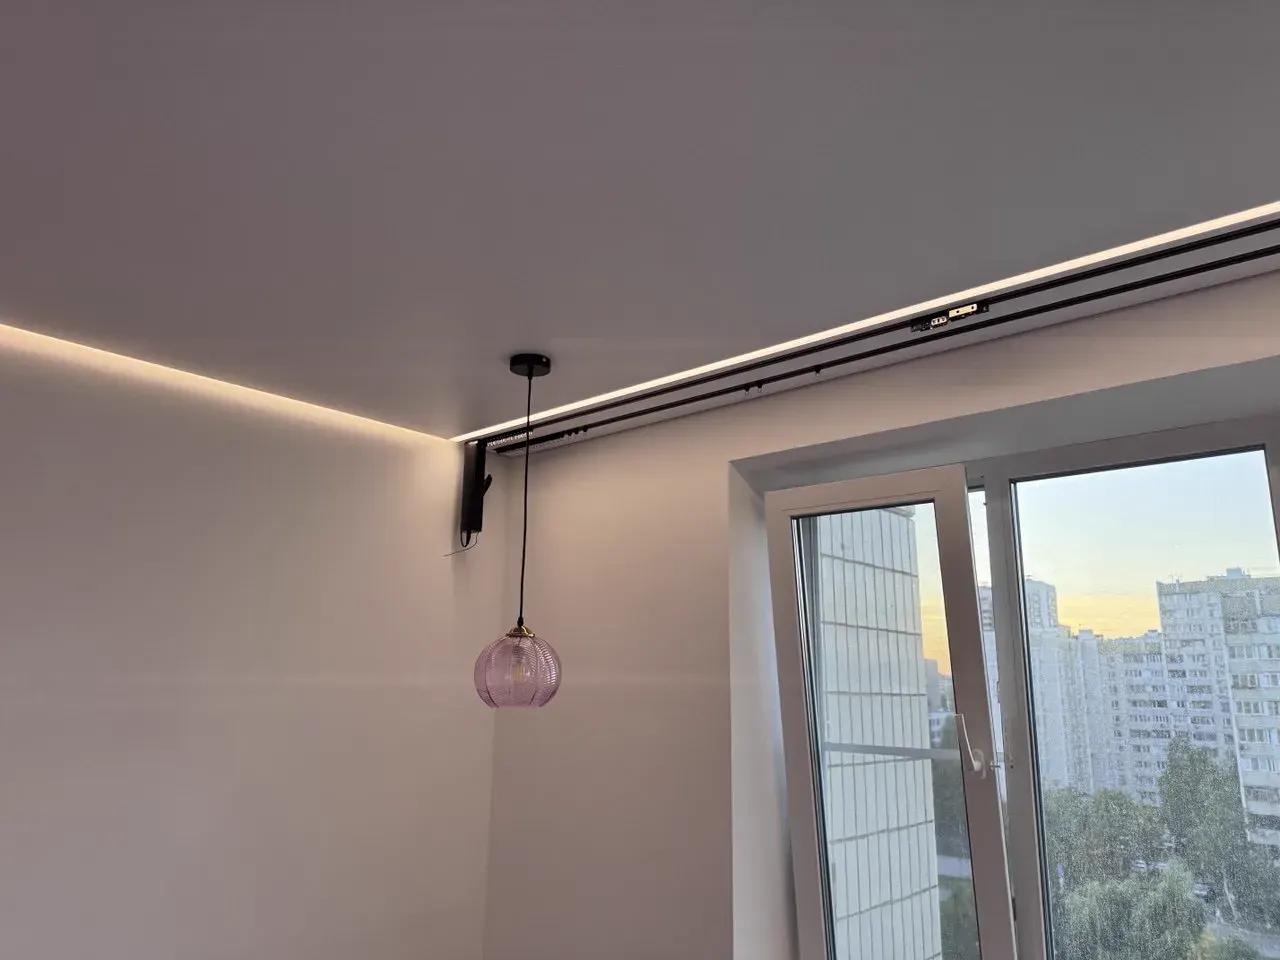
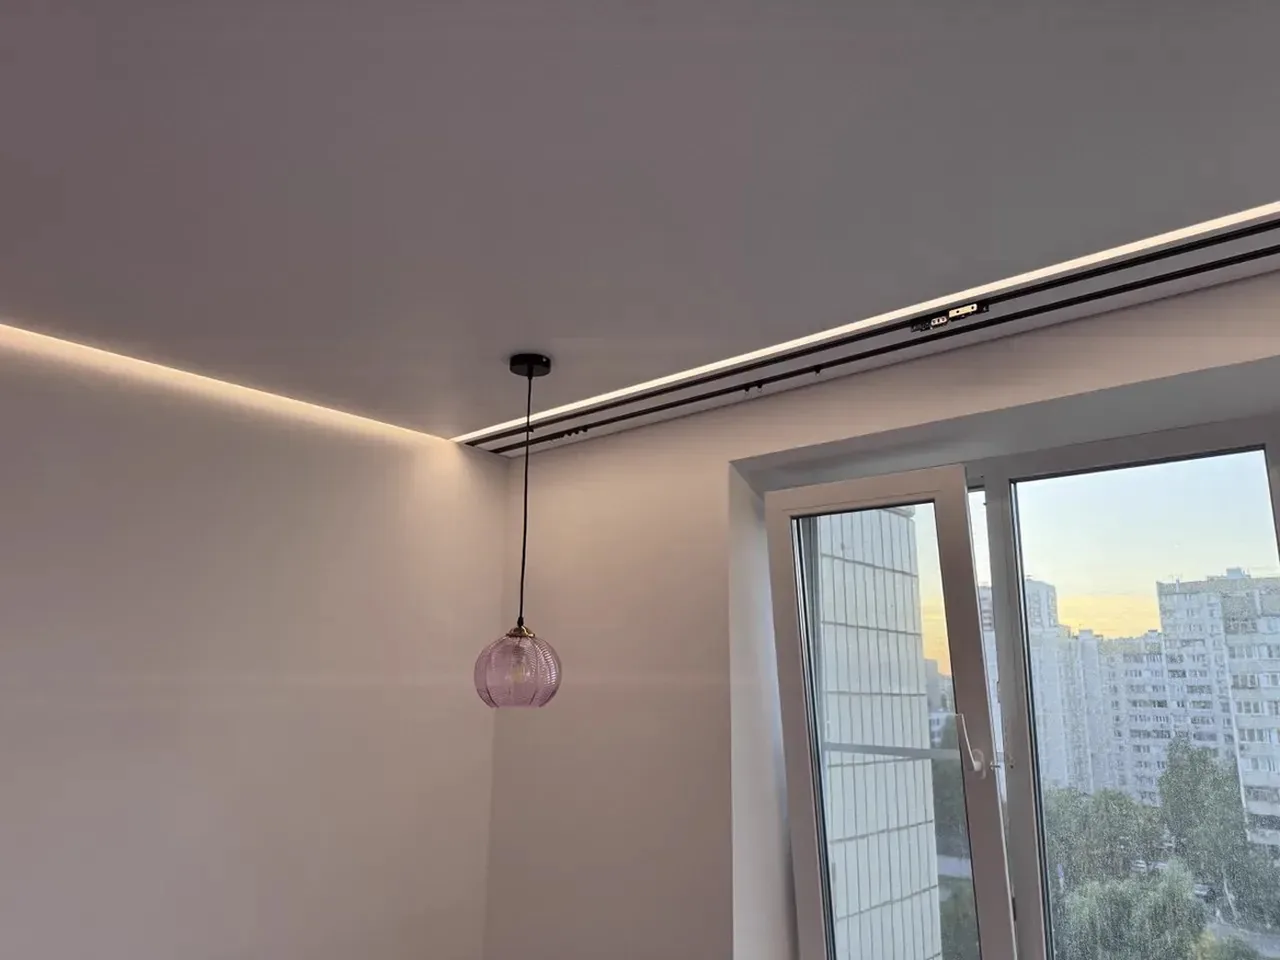
Иконка сайта для поиска + ещё 4 исправленных фото
Иконка: раньше была только svod-logo.webp, а Яндекс не показывает
иконки в формате WebP. Добавлены favicon.ico (16/32/48) в корень,
favicon-120.png (размер, который рекомендует Яндекс), icon-192.png
и apple-touch-icon.png — монограмма «СВ» на белом фоне, читается
на 16 px и в тёмной теме. Ссылки на всех страницах.

Фото (lg/sm/th): borodino-04, mayak-10, riviera-06, riviera-08 —
убраны провода, пакеты, хлам на подоконнике, мотор карниза, плёнка.

Changed region(s): [[0.3438, 0.4375, 0.4375, 0.5938]]

diff --git a/index.html b/index.html
@@ -4,8 +4,10 @@
     <meta name="robots" content="noindex, nofollow" />
     <meta charset="UTF-8" />
     <meta name="viewport" content="width=device-width, initial-scale=1.0, viewport-fit=cover" />
-    <link rel="icon" type="image/webp" href="./assets/svod-logo.webp" />
-    <link rel="apple-touch-icon" href="./assets/svod-logo.webp" />
+        <link rel="icon" href="./favicon.ico" sizes="48x48" />
+<link rel="icon" type="image/png" sizes="120x120" href="./assets/favicon-120.png" />
+<link rel="icon" type="image/png" sizes="192x192" href="./assets/icon-192.png" />
+<link rel="apple-touch-icon" href="./assets/apple-touch-icon.png" />
 
     <title>Натяжные потолки в Москве под ключ — монтаж за 1 день | СВОДЪ</title>
     <meta name="description" content="Натяжные потолки любой сложности в Москве и области: теневые, парящие, световые линии, треки. Монтаж за 1 день без пыли, цена в договоре, гарантия 15 лет. Реальные объекты с ценами за м². ☎ 8 (985) 410-22-00." />

diff --git a/2/index.html b/2/index.html
@@ -11,7 +11,9 @@
 <meta property="og:title" content="Рассчитайте стоимость натяжного потолка — СВОДЪ">
 <meta property="og:description" content="3 вопроса — и точная цена. Монтаж за 1 день, цена в договоре.">
 <meta property="og:image" content="https://svodmsk.ru/assets/og-cover.jpg">
-<link rel="icon" href="/svod-preview/assets/svod-logo.webp">
+<link rel="icon" href="/svod-preview/favicon.ico" sizes="48x48">
+<link rel="icon" type="image/png" sizes="120x120" href="/svod-preview/assets/favicon-120.png">
+<link rel="apple-touch-icon" href="/svod-preview/assets/apple-touch-icon.png">
 <link rel="preconnect" href="https://fonts.googleapis.com">
 <link rel="preconnect" href="https://fonts.gstatic.com" crossorigin>
 <link href="https://fonts.googleapis.com/css2?family=Cormorant+Garamond:wght@500;600;700&family=Manrope:wght@400;500;600;700;800&display=swap" rel="stylesheet">

diff --git a/privacy.html b/privacy.html
@@ -6,7 +6,9 @@
   <meta name="viewport" content="width=device-width, initial-scale=1.0" />
   <title>Политика обработки персональных данных — СВОДЪ</title>
   
-  <link rel="icon" type="image/webp" href="/svod-preview/assets/svod-logo.webp" />
+  <link rel="icon" href="/svod-preview/favicon.ico" sizes="48x48" />
+<link rel="icon" type="image/png" sizes="120x120" href="/svod-preview/assets/favicon-120.png" />
+<link rel="apple-touch-icon" href="/svod-preview/assets/apple-touch-icon.png" />
   <style>
     body{font-family:system-ui,-apple-system,"Segoe UI",Arial,sans-serif;max-width:860px;margin:0 auto;padding:40px 20px 64px;color:#23232B;line-height:1.65;background:#F7F4EF}
     h1{font-size:28px;line-height:1.25;margin:0 0 8px}h2{font-size:19px;margin-top:32px}

diff --git a/cookies.html b/cookies.html
@@ -6,7 +6,9 @@
   <meta name="viewport" content="width=device-width, initial-scale=1.0" />
   <title>Политика использования cookie — СВОДЪ</title>
   
-  <link rel="icon" type="image/webp" href="/svod-preview/assets/svod-logo.webp" />
+  <link rel="icon" href="/svod-preview/favicon.ico" sizes="48x48" />
+<link rel="icon" type="image/png" sizes="120x120" href="/svod-preview/assets/favicon-120.png" />
+<link rel="apple-touch-icon" href="/svod-preview/assets/apple-touch-icon.png" />
   <style>
     body{font-family:system-ui,-apple-system,"Segoe UI",Arial,sans-serif;max-width:860px;margin:0 auto;padding:40px 20px 64px;color:#23232B;line-height:1.65;background:#F7F4EF}
     h1{font-size:28px;line-height:1.25;margin:0 0 8px}h2{font-size:19px;margin-top:28px}

diff --git a/consent.html b/consent.html
@@ -6,7 +6,9 @@
   <meta name="viewport" content="width=device-width, initial-scale=1.0" />
   <title>Согласие на обработку персональных данных — СВОДЪ</title>
   
-  <link rel="icon" type="image/webp" href="/svod-preview/assets/svod-logo.webp" />
+  <link rel="icon" href="/svod-preview/favicon.ico" sizes="48x48" />
+<link rel="icon" type="image/png" sizes="120x120" href="/svod-preview/assets/favicon-120.png" />
+<link rel="apple-touch-icon" href="/svod-preview/assets/apple-touch-icon.png" />
   <style>
     body{font-family:system-ui,-apple-system,"Segoe UI",Arial,sans-serif;max-width:860px;margin:0 auto;padding:40px 20px 64px;color:#23232B;line-height:1.65;background:#F7F4EF}
     h1{font-size:28px;line-height:1.25;margin:0 0 8px}
